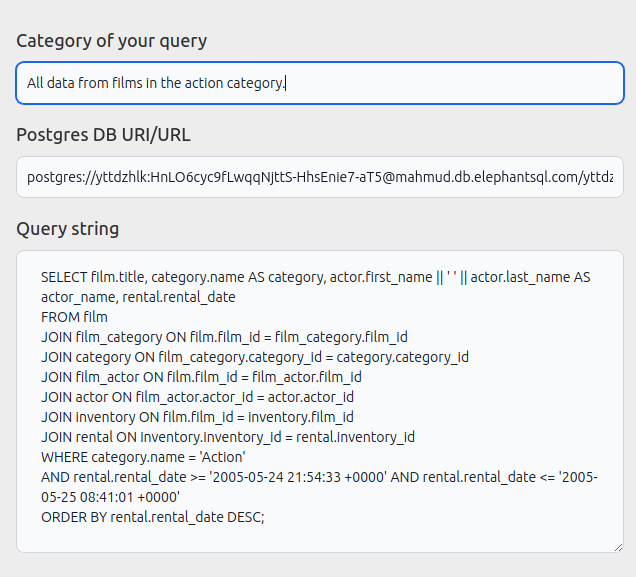
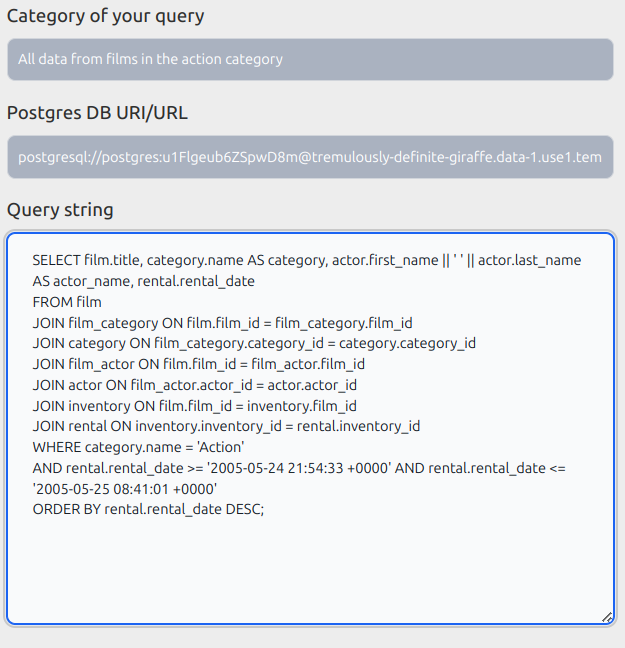
Changed the db to another db by tembo. Changed how postgres pools work. Changed About Page and image for new pagilla instance.

Changed region(s): [[0.0, 0.0, 1.0, 0.9671]]

diff --git a/src/pages/About.svelte b/src/pages/About.svelte
@@ -4,6 +4,23 @@
 	import pagila from "../assets/Pagila-ER-Diagram.png"
 	import { Modal } from 'flowbite-svelte'
 	let defaultModal = false;
+	const sqlQuery = `
+    		SELECT film.title,
+    			   category.name AS category,
+    			   actor.first_name || ' ' || actor.last_name AS actor_name,
+    			   rental.rental_date
+    		FROM film
+    		JOIN film_category ON film.film_id = film_category.film_id
+    		JOIN category ON film_category.category_id = category.category_id
+    		JOIN film_actor ON film.film_id = film_actor.film_id
+    		JOIN actor ON film_actor.actor_id = actor.actor_id
+    		JOIN inventory ON film.film_id = inventory.film_id
+    		JOIN rental ON inventory.inventory_id = rental.inventory_id
+    		WHERE category.name = 'Action'
+    		AND rental.rental_date >= '2005-05-24 21:54:33 +0000'
+    		AND rental.rental_date <= '2005-05-25 08:41:01 +0000'
+    		ORDER BY rental.rental_date DESC;
+    	`;
 </script>
 
 
@@ -28,22 +45,19 @@
 	<p>When the drawer opens, enter the following information into the provided fields:</p>
 	<p>
 		<strong>Category of your query:</strong><br />
-		pagila-customer-select-10-delay-2 <br /><br />
+		All data from films in the action category <br /><br />
 		<strong>Postgres DB URI/URL:</strong><br />
-		postgres://yttdzhlk:HnLO6cyc9fLwqqNjttS-HhsEnie7-aT5@mahmud.db.elephantsql.com/yttdzhlk<br /><br
+		postgresql://postgres:u1Flgeub6ZSpwD8m@tremulously-definite-giraffe.data-1.use1.tembo.io:5432/postgres<br /><br
 		/>
-		<strong>Query string:</strong><br />
+		<strong>Query string:</strong><br /><br />
 
-		SELECT customer.customer_id, customer.first_name, customer.last_name, SUM(payment.amount) AS
-		total_revenue<br />
-		FROM customer<br />
-		JOIN payment ON customer.customer_id = payment.customer_id<br />
-		GROUP BY customer.customer_id<br />
-		ORDER BY total_revenue DESC<br />
-		LIMIT 10;<br /><br />
+        	{sqlQuery}<br /><br />
 
-		<strong>Set # of query runs to 3 and leave Delay between queries at 2</strong> <br /><br />
-		The data should look like this:
+
+        <strong>Set the number of query runs to 3 and leave the delay between queries at 2.</strong><br /><br />
+        <strong>The query should look like this:</strong>
+
+
 	</p>
     <img src={drawer} class="w-92" alt="drawer with above data as input" />
 	<p>Now run the query and browse the metrics data!</p>

diff --git a/src/lib/Drawer.svelte b/src/lib/Drawer.svelte
@@ -89,7 +89,7 @@
 								type="text"
 								name="queryName"
 								id="queryName"
-                maxlength="30"
+                maxlength="50"
 								class="bg-gray-50 border border-gray-300 text-gray-900 sm:text-sm rounded-lg focus:ring-primary-600 focus:border-primary-600 block w-full p-2.5 dark:bg-gray-700 dark:border-gray-600 dark:placeholder-gray-400 dark:text-white dark:focus:ring-blue-500 dark:focus:border-blue-500"
 								placeholder="e.g. My query"
 								required
